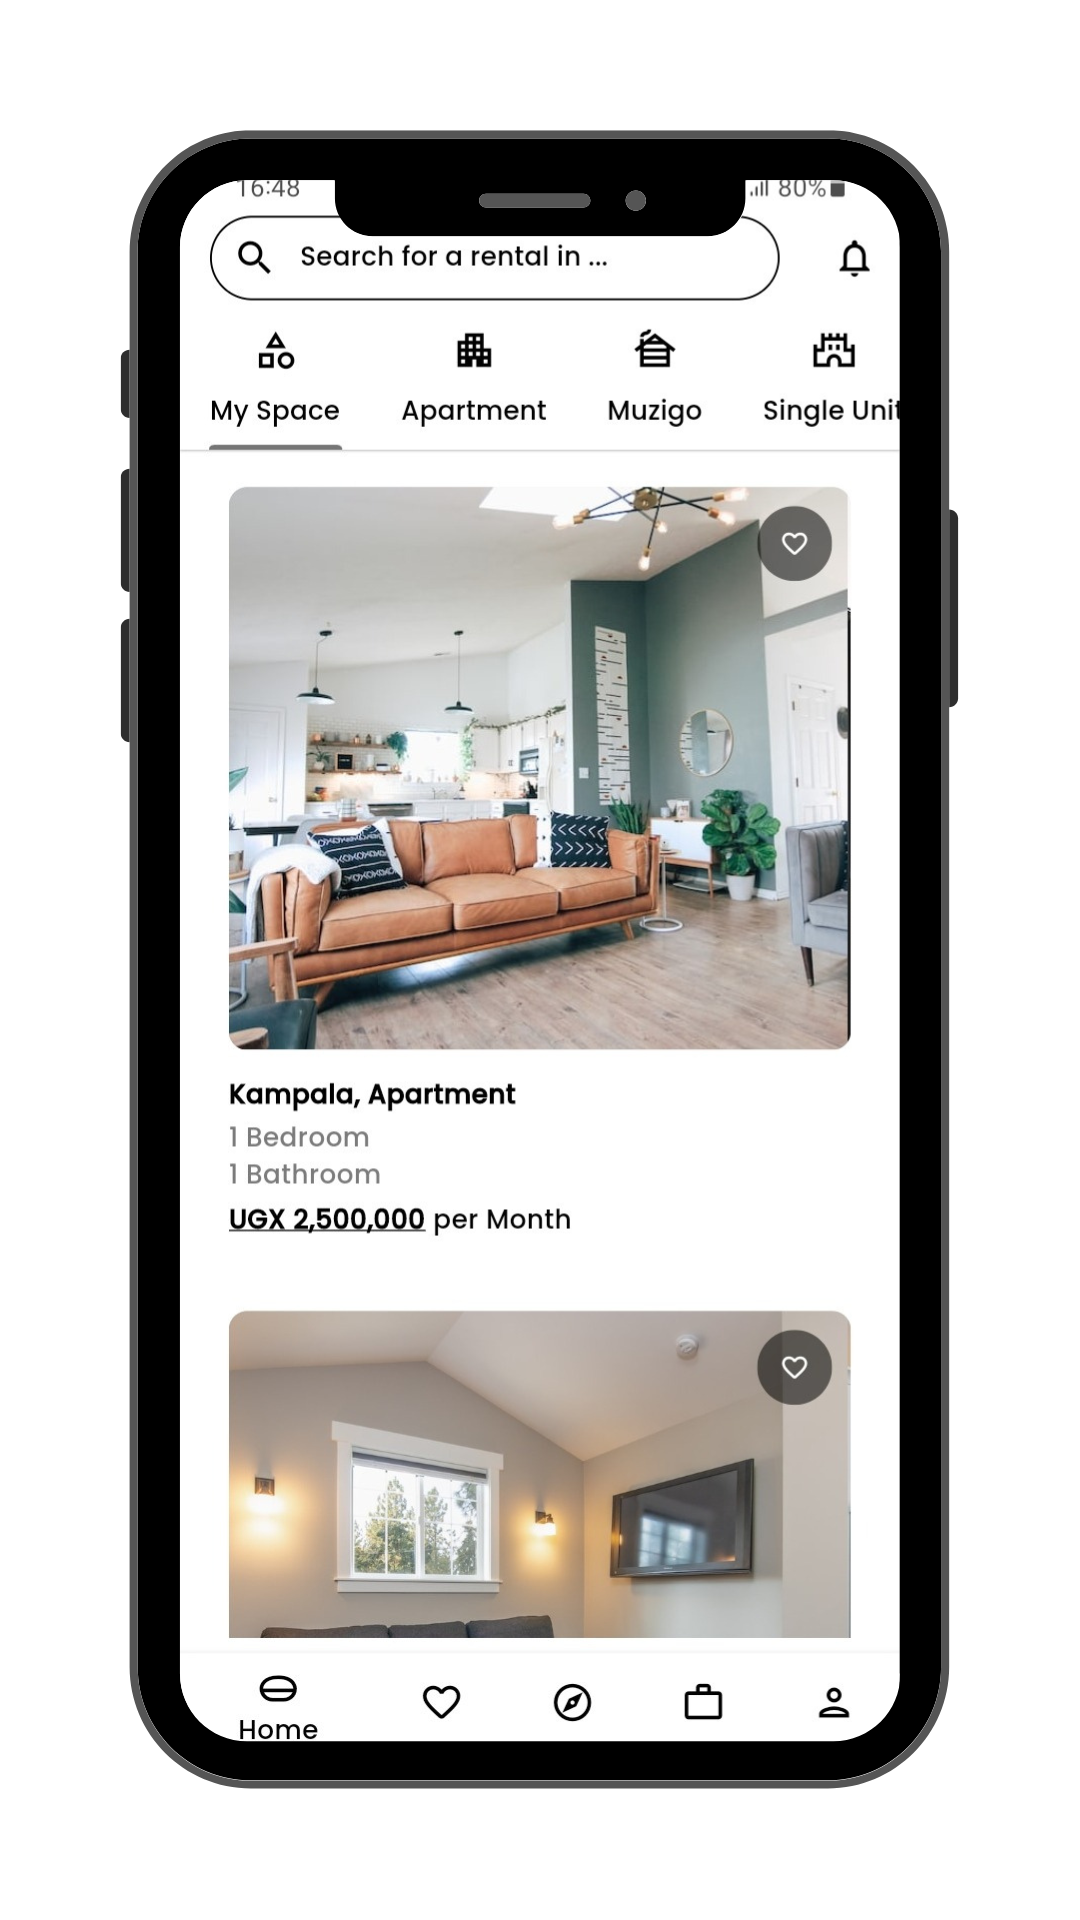
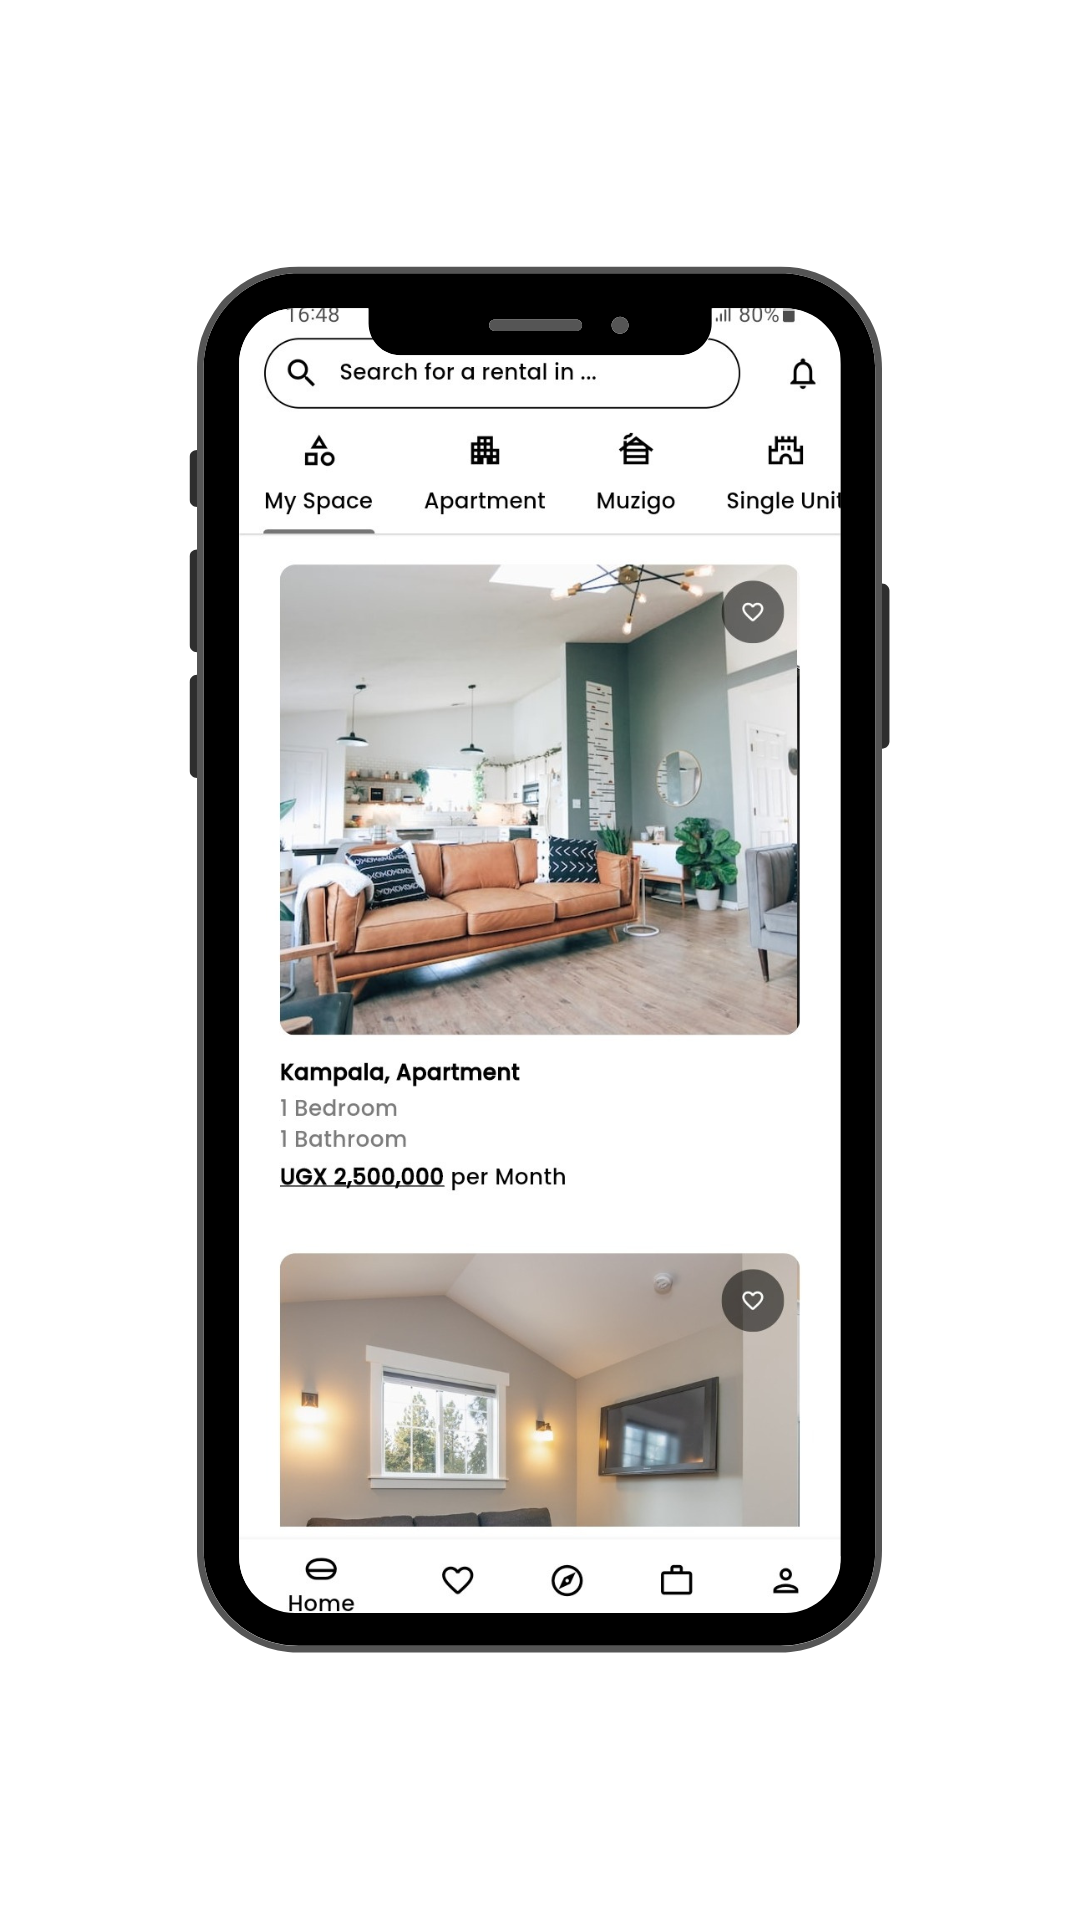
mobile carousel check

diff --git a/spesnow.html b/spesnow.html
@@ -187,7 +187,7 @@
                 </div>
               <div class="carousel-inner">
                 <div class="carousel-item active">
-                  <img src="./assets//mobile-screenshots/1.png" class="d-block w-100" alt="...">
+                  <img src="./assets//mobile-screenshots/1.png" class="d-block w-75" alt="...">
                 </div>
                 <div class="carousel-item">
                   <img src="./assets//mobile-screenshots/2.png" class="d-block w-100" alt="...">
